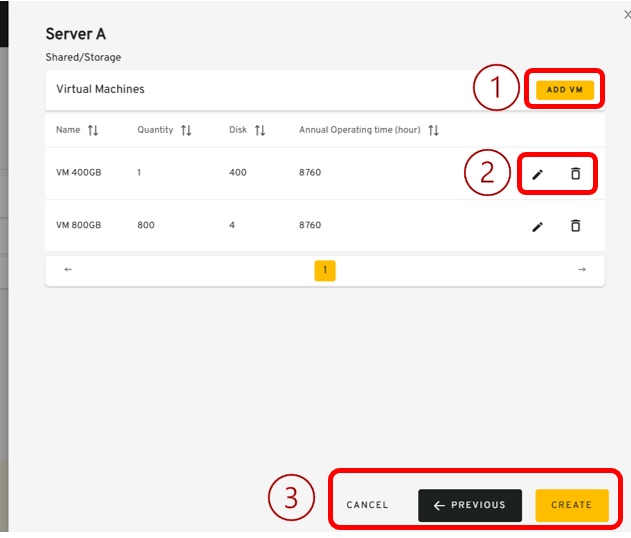
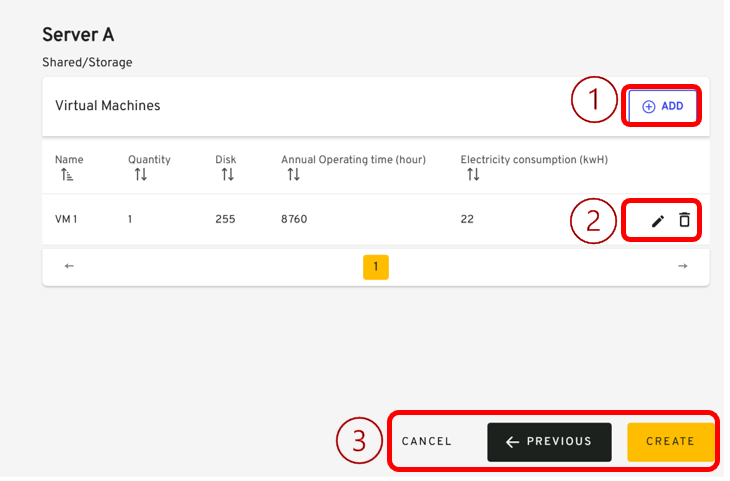
feat(1598): update documentation

diff --git a/services/documentation/content/2-functional-documentation/use_cases/uc_digital_services/uc3_add_visualize_equipments/uc3_add_visualize_noncloud-servers/add_visualize_nonCloud_servers_via_forms.md b/services/documentation/content/2-functional-documentation/use_cases/uc_digital_services/uc3_add_visualize_equipments/uc3_add_visualize_noncloud-servers/add_visualize_nonCloud_servers_via_forms.md
@@ -118,7 +118,7 @@ _example:_
 {{% expand title="Show the behavior detail" expanded="false" center="true"%}}
 
 | Reference | Group      | Elements                     | Type      | Description                                                                                                                                                              |
-| --------- | ---------- | ---------------------------- | --------- | ------------------------------------------------------------------------------------------------------------------------------------------------------------------------ |
+|-----------| ---------- | ---------------------------- | --------- |--------------------------------------------------------------------------------------------------------------------------------------------------------------------------|
 |           | Header     |                              | group     |                                                                                                                                                                          |
 | 1         |            | Server Name                  | title     |                                                                                                                                                                          |
 | 2         |            | Server options               | sub-title |                                                                                                                                                                          |
@@ -130,9 +130,10 @@ _example:_
 | 5         |            | Quantity (+VMs)              | column    |                                                                                                                                                                          |
 | 6         |            | vCPU                         | column    |                                                                                                                                                                          |
 | 7         |            | Annual Operating time (hour) | column    |                                                                                                                                                                          |
-| 8         |            | Cancel                       | button    | <li><u>_action rules_</u>: That button open the window Servers details.                                                                                                  |
-| 9         |            | Previous                     | button    | <li><u>_action rules_</u>: Come back to the previous screen                                                                                                              |
-| 10        |            | Create                       | button    | <li><u>_action rules_</u>: Create the non cloud servers from the current Digital Service.<br>Note : The user must click on Calculate to update the footprint estimation. |
+| 8         |            |Electricity consumption (kwH) | column    | Optional                                                                                                                                                                 |
+| 9         |            | Cancel                       | button    | <li><u>_action rules_</u>: That button open the window Servers details.                                                                                                  |
+| 10        |            | Previous                     | button    | <li><u>_action rules_</u>: Come back to the previous screen                                                                                                              |
+| 11        |            | Create                       | button    | <li><u>_action rules_</u>: Create the non cloud servers from the current Digital Service.<br>Note : The user must click on Calculate to update the footprint estimation. |
 
 {{% /expand %}}
 
@@ -144,7 +145,7 @@ _example:_
 {{% expand title="Show the behavior detail" expanded="false" center="true"%}}
 
 | Reference | Group                 | Elements                     | Type                | Description                                                             |
-| --------- | --------------------- | ---------------------------- | ------------------- | ----------------------------------------------------------------------- |
+|-----------| --------------------- | ---------------------------- | ------------------- | ----------------------------------------------------------------------- |
 |           | Header                |                              | group               |                                                                         |
 | 1         |                       | Add VM                       | title               |                                                                         |
 | 2         |                       | Name                         | label input         |                                                                         |
@@ -152,8 +153,9 @@ _example:_
 |           | Additional Parameters |                              |                     |                                                                         |
 | 4         |                       | Quantity                     | Entire number input |                                                                         |
 | 5         |                       | Annual operating time (hour) | Entire number input |                                                                         |
-| 6         |                       | Cancel                       | button              | <li><u>_action rules_</u>: That button open the window Network details. |
-| 7         |                       | Add VM                       | button              |                                                                         |
+| 6         |                       | Electricity consumption (kwH)| Entire number input |                                                                         |
+| 7         |                       | Cancel                       | button              | <li><u>_action rules_</u>: That button open the window Network details. |
+| 8         |                       | Add VM                       | button              |                                                                         |
 
 {{% /expand %}}
 

diff --git a/services/documentation/content/1-getting-started/1-getting-started-as-a-user/1-module-digital-service/2-load_data.md b/services/documentation/content/1-getting-started/1-getting-started-as-a-user/1-module-digital-service/2-load_data.md
@@ -195,6 +195,7 @@ weight: 20
     - **Quantity**
     - **Size**: The resource allocation for each virtual machine (e.g., CPU cores, storage).
     - **Operating Time**: The total uptime of virtual machines throughout the year, measured in hours.
+    - **Electricity consumption(Optional)**: Annual electrical consumption of the equipment, measured in kilowatts per hour (kWh).
 2. **Action:** Edit or delete the VM as needed.
 3. **Action:** Finalize the creation of the server and associated virtual machine.
 

diff --git a/CHANGELOG.md b/CHANGELOG.md
@@ -26,6 +26,14 @@
 
 ### Major Changes
 
+### Major Changes
+
+- 1598 | [AFNIC] NumEcoEval - Electricity consumption of a Virtual Machine
+
+## 3.6.0
+
+### Major Changes
+
 - 1406 | Visualize a digital service without any account
 - 1402 | Import .csv for terminal and network
 - 1442 | Rename organization to workspace and subscriber to organization

diff --git a/services/documentation/content/1-getting-started/1-getting-started-as-a-user/1-module-digital-service/1-collect_data.md b/services/documentation/content/1-getting-started/1-getting-started-as-a-user/1-module-digital-service/1-collect_data.md
@@ -79,6 +79,8 @@ service performance.
 
 -   **Operating Time**: The total uptime of virtual machines throughout the year, measured in hours.
 
+-   **Electricity Consumption(Optional)**: Annual electrical consumption of the equipment, measured in kilowatts per hour (kWh).
+
 ---
 
 #### **Cloud Hosting (IaaS - Infrastructure as a Service)**
